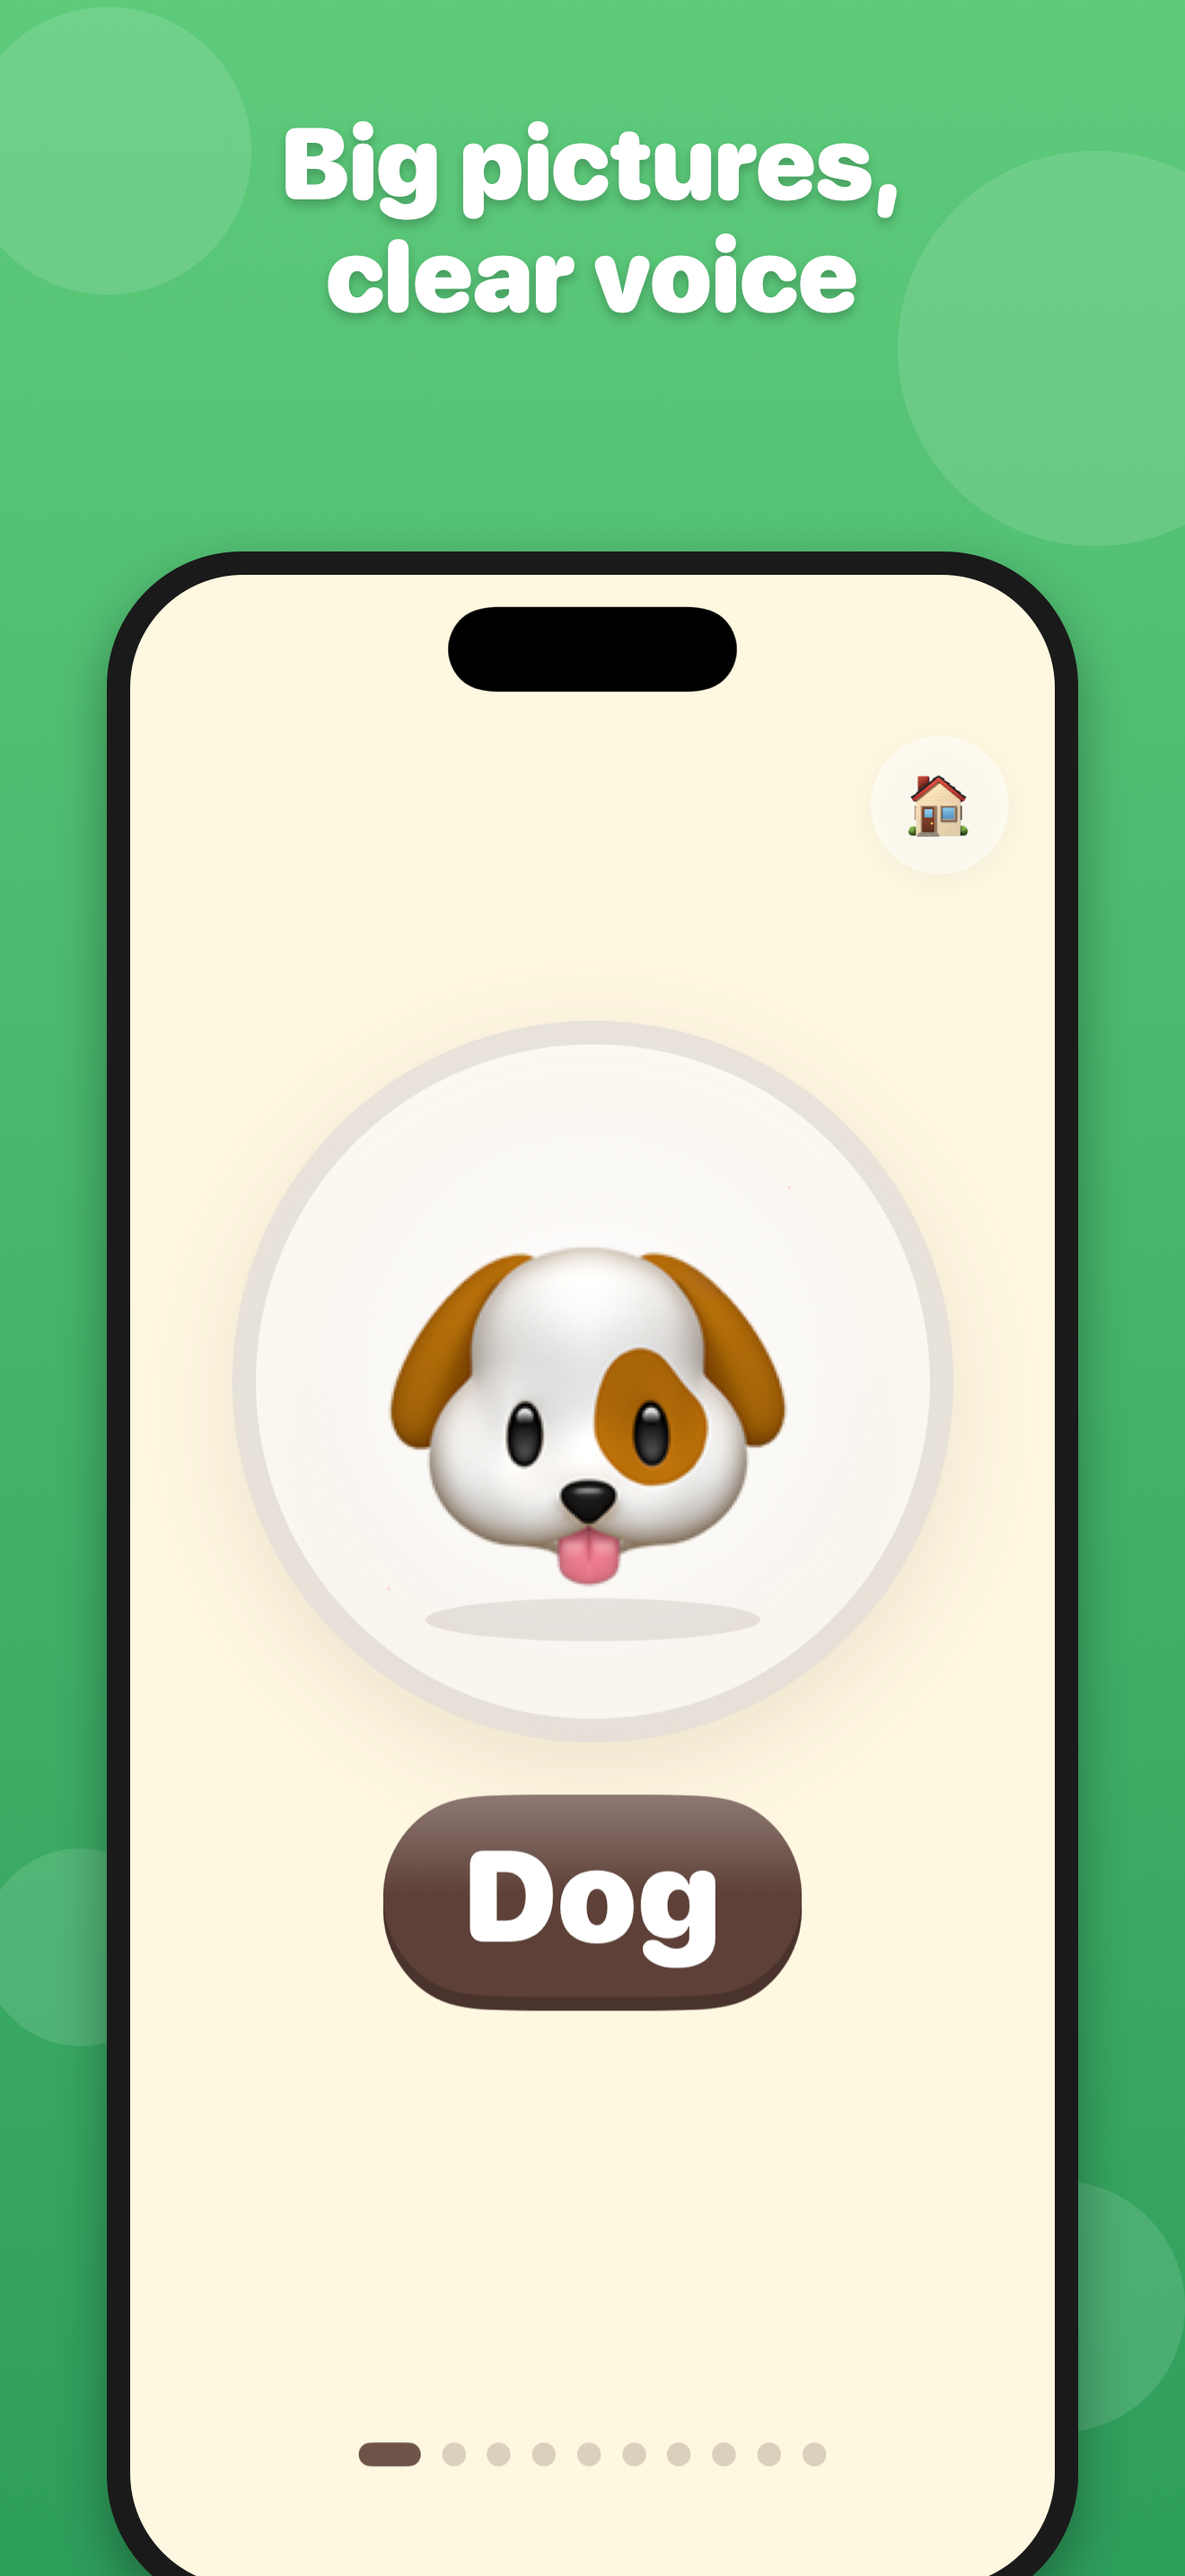
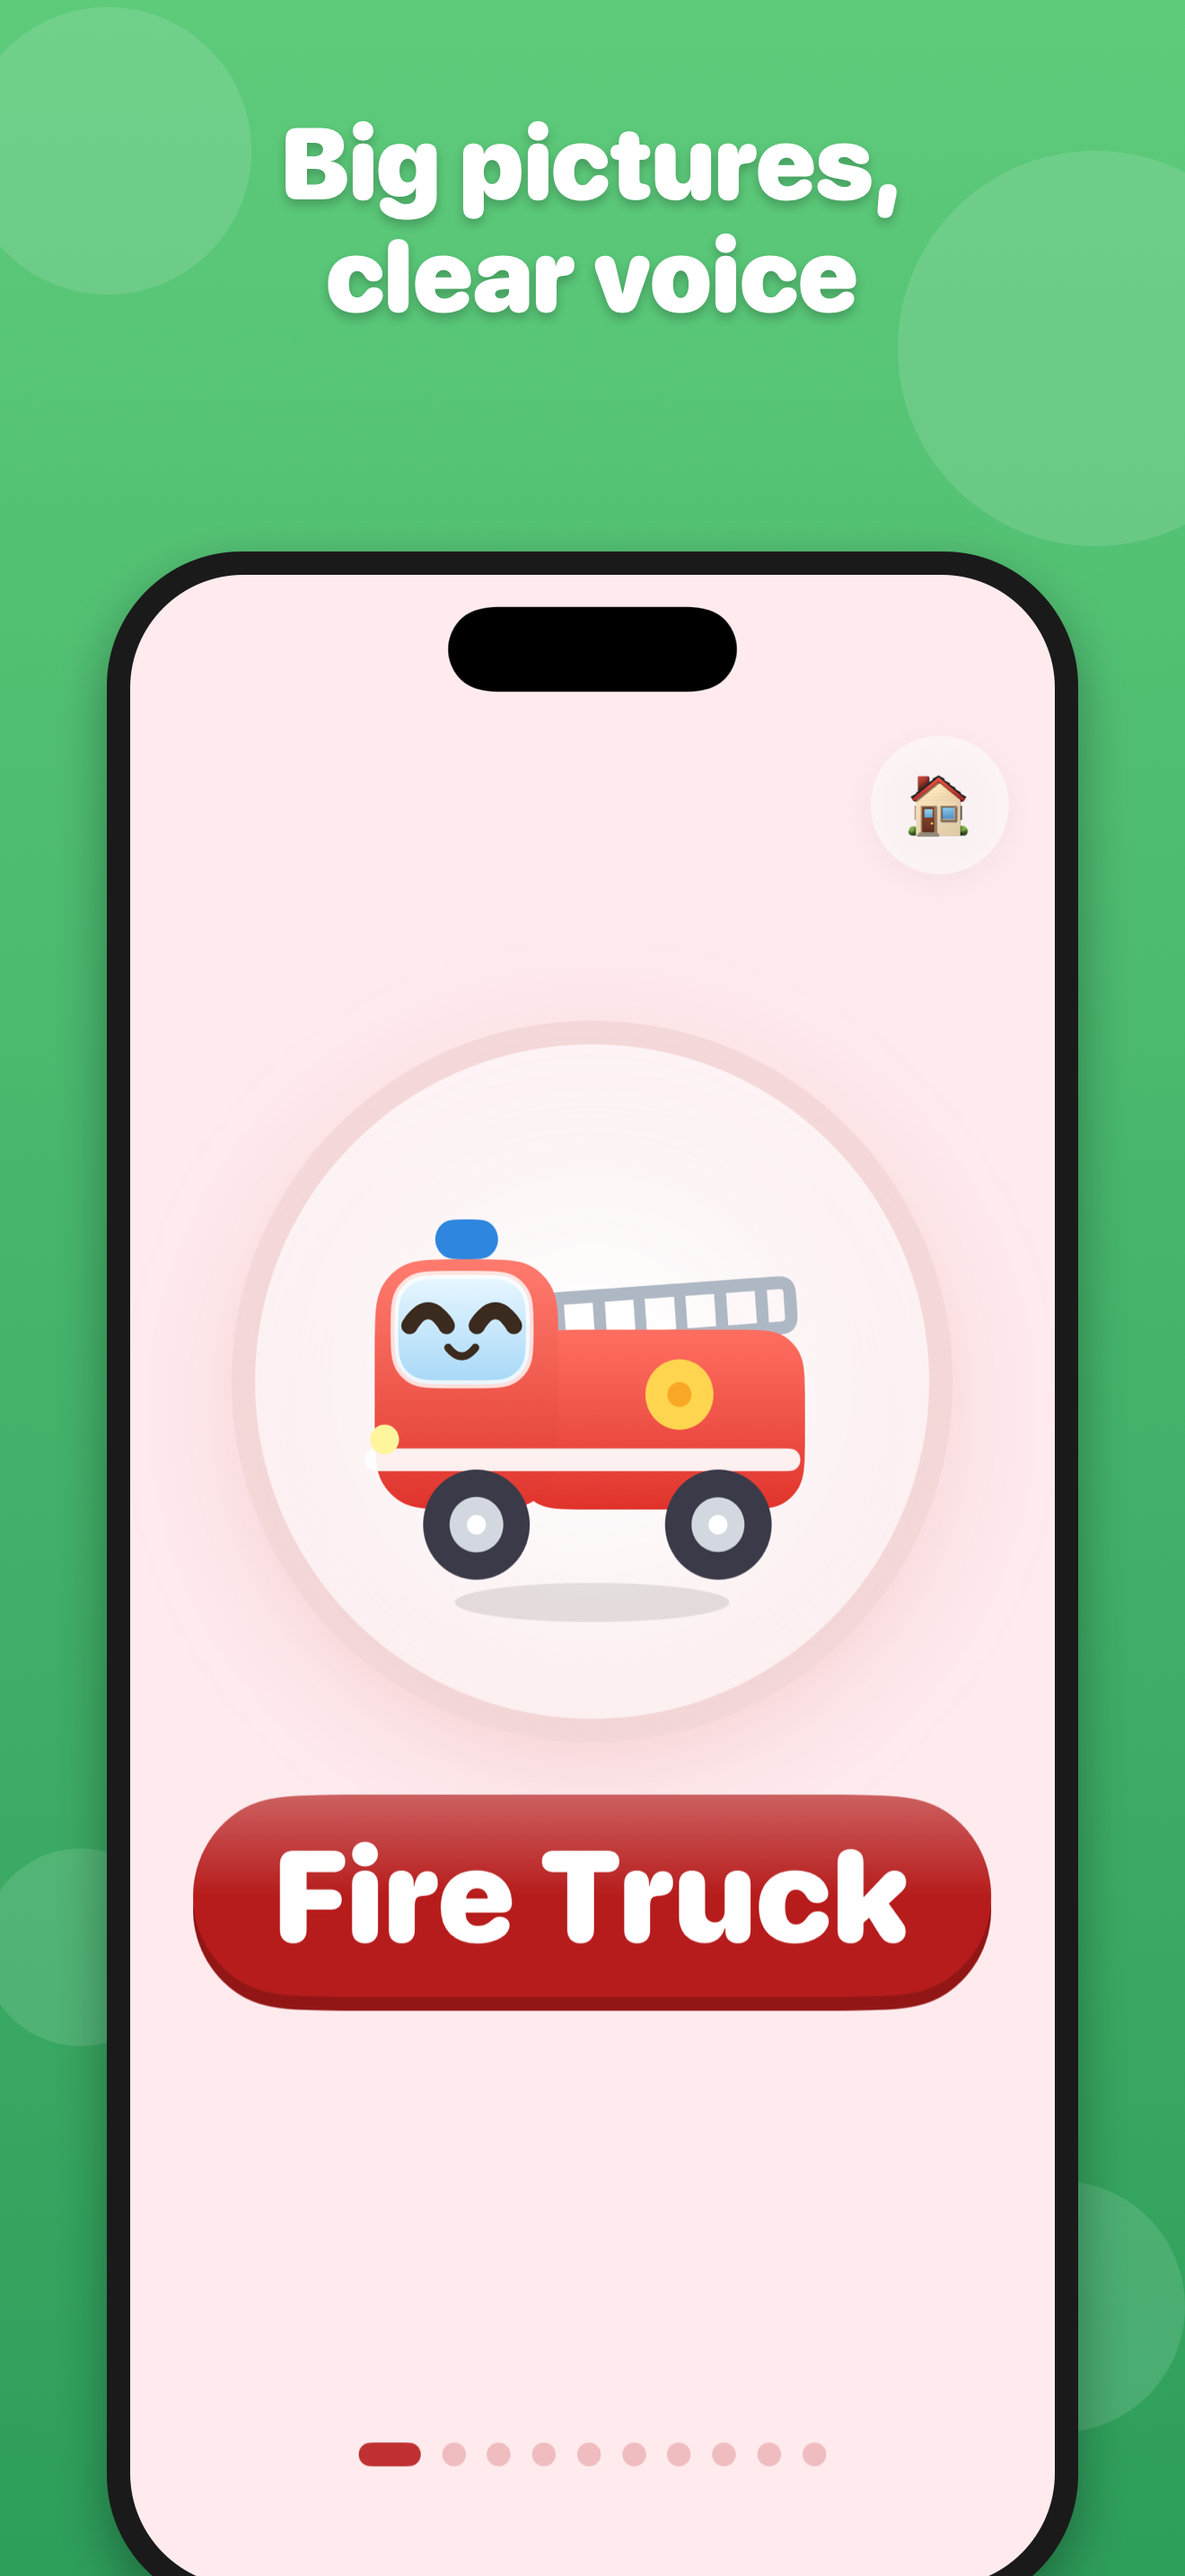
feat: stickers use drawn characters; refresh App Store screenshots
- StickerArt: a sticker that matches a word shows its drawn character
  (album, silhouettes and the celebration reveal); gift stickers stay
  emoji. Stickers are still stored as emoji, so collections carry over
- Retake all 6 App Store screenshots (EN + HE) with the new characters
- Refresh landing-page images in docs/assets

Changed region(s): [[0.1553, 0.6827, 0.8386, 0.8068], [0.3106, 0.4655, 0.6833, 0.6517], [0.3106, 0.931, 0.3727, 0.962]]

diff --git a/ios/App/App/StickerBoardView.swift b/ios/App/App/StickerBoardView.swift
@@ -143,8 +143,7 @@ struct StickerBoardView: View {
                 .fill(owned ? Color.white : Color.white.opacity(0.5))
                 .shadow(color: Color.black.opacity(owned ? 0.07 : 0), radius: 4, y: 2)
             if owned {
-                Text(sticker)
-                    .font(.system(size: 40 * u))
+                StickerArt(sticker: sticker, size: 40 * u)
                     .scaleEffect(appeared ? (bounced == sticker ? 1.35 : 1.0) : 0.3)
                     .rotationEffect(.degrees(bounced == sticker ? 12 : 0))
                     .animation(.spring(response: 0.4, dampingFraction: 0.45)
@@ -162,8 +161,7 @@ struct StickerBoardView: View {
                 }
             } else {
                 // silhouette of the sticker still to win
-                Text(sticker)
-                    .font(.system(size: 34 * u))
+                StickerArt(sticker: sticker, size: 34 * u, animated: false)
                     .saturation(0)
                     .colorMultiply(Color(hex: "#5D4037"))
                     .opacity(0.13)
@@ -181,5 +179,38 @@ struct StickerBoardView: View {
             }
         }
         .accessibilityLabel(owned ? sticker : L10n.t("Not collected yet", "עוד לא נאסף"))
+    }
+}
+
+// ─────────────────────────────────────────────
+// MARK: - Sticker art
+// ─────────────────────────────────────────────
+
+/// A sticker shows the word's drawn character when it is one of the words
+/// (🐶 → the puppy), otherwise the emoji itself (gift stickers like 🦄).
+/// Stickers are still stored as emoji, so existing collections carry over.
+struct StickerArt: View {
+    let sticker: String
+    var size: CGFloat
+    var mood: CharacterMood = .idle
+    var animated = true
+
+    private static let wordsByEmoji: [String: WordItem] =
+        Dictionary(ALL_WORDS.map { ($0.emoji, $0) }, uniquingKeysWith: { first, _ in first })
+
+    var body: some View {
+        if let word = Self.wordsByEmoji[sticker], CharacterLibrary.has(word.id) {
+            Group {
+                if animated {
+                    WordArt(word: word, mood: mood)
+                } else {
+                    CharacterLibrary.view(for: word.id, mood: .idle)   // silhouettes stay still
+                        .transaction { $0.animation = nil }
+                }
+            }
+            .frame(width: size * 1.2, height: size * 1.2)
+        } else {
+            Text(sticker).font(.system(size: size))
+        }
     }
 }

diff --git a/ios/App/App/CelebrationView.swift b/ios/App/App/CelebrationView.swift
@@ -57,8 +57,7 @@ struct CelebrationView: View {
                         Circle()
                             .strokeBorder(Color(hex: "#FFCA28"), style: StrokeStyle(lineWidth: 6 * u, dash: [14 * u, 10 * u]))
                             .frame(width: 152 * u, height: 152 * u)
-                        Text(sticker)
-                            .font(.system(size: 96 * u))
+                        StickerArt(sticker: sticker, size: 96 * u, mood: stickerIn ? .happy : .idle)
                     }
                     .scaleEffect(stickerIn ? 1 : 0.01)
                     .rotationEffect(.degrees(stickerIn ? 0 : 180))
